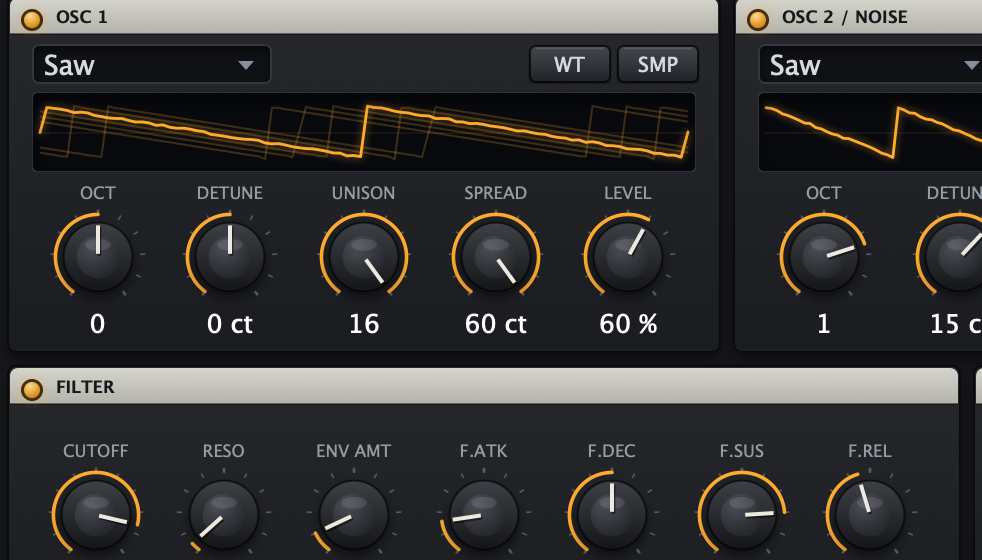
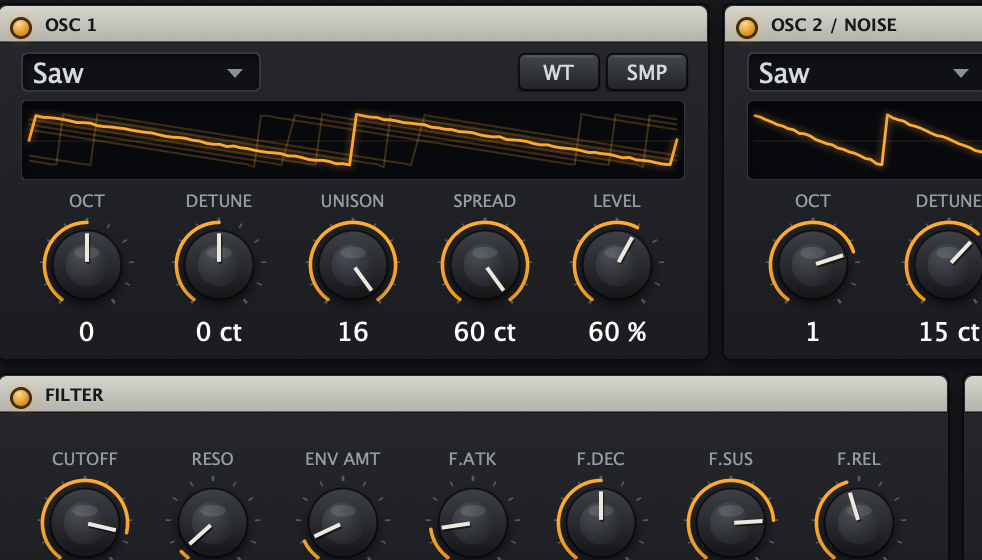
Fresh UI screenshots: current skin, amber envelopes, ENV-tab crop

diff --git a/index.html b/index.html
@@ -213,8 +213,8 @@
     </div>
     <div>
       <div class="frame"><img src="img/crop-warmpad.png" width="982" height="560"
-           alt="Ember-8 filter and envelope section with the Warm Pad preset"></div>
-      <div class="caption">WARM PAD &middot; FILTER &amp; ENVELOPES</div>
+           alt="Ember-8 effects row and glowing amp envelope with the Warm Pad preset"></div>
+      <div class="caption">WARM PAD &middot; FX &amp; DRAGGABLE ENVELOPES</div>
     </div>
   </div>
 </section>
